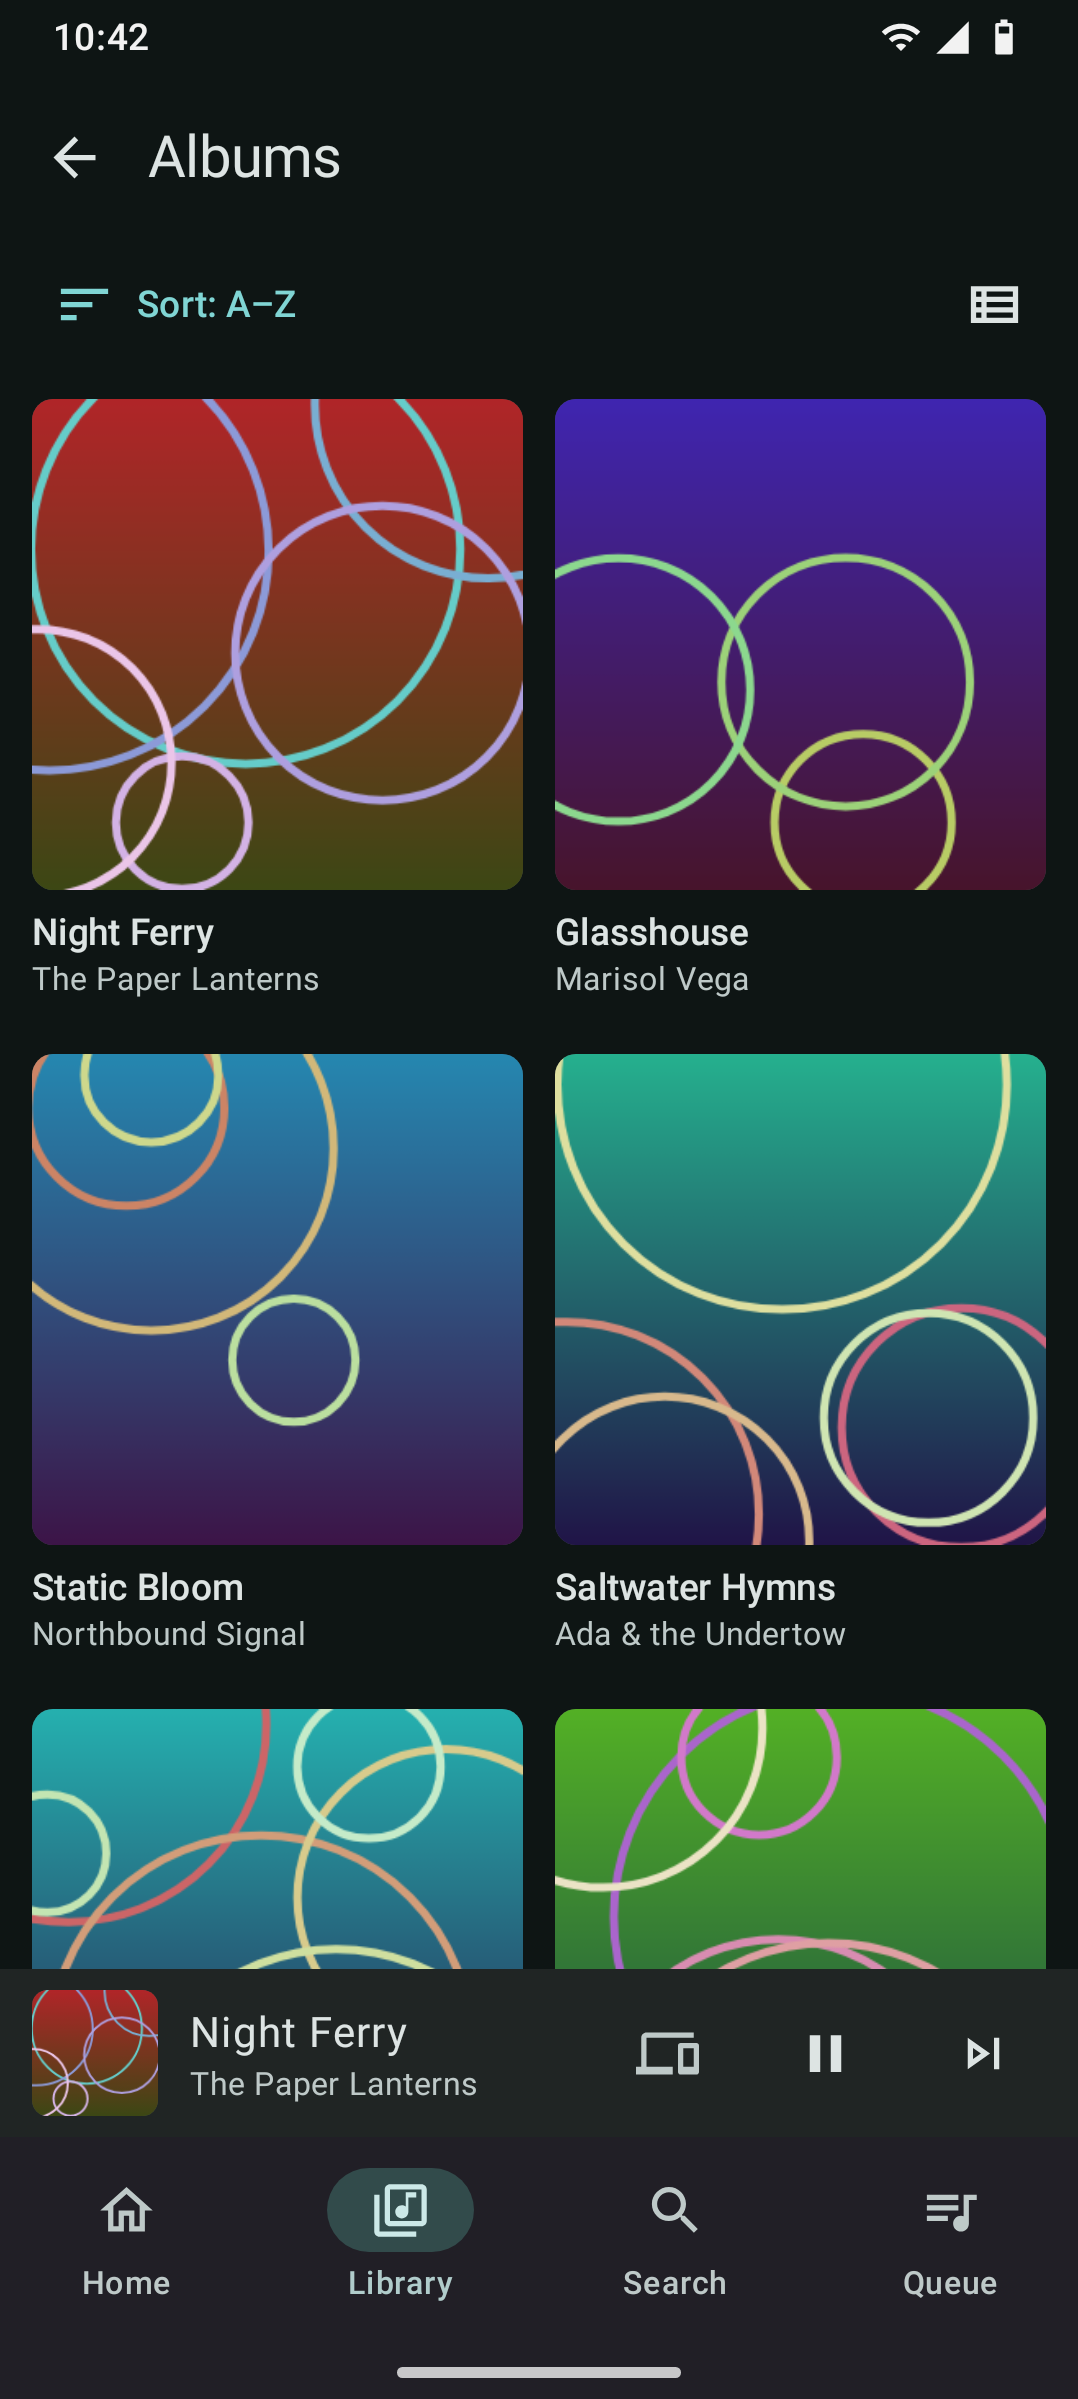
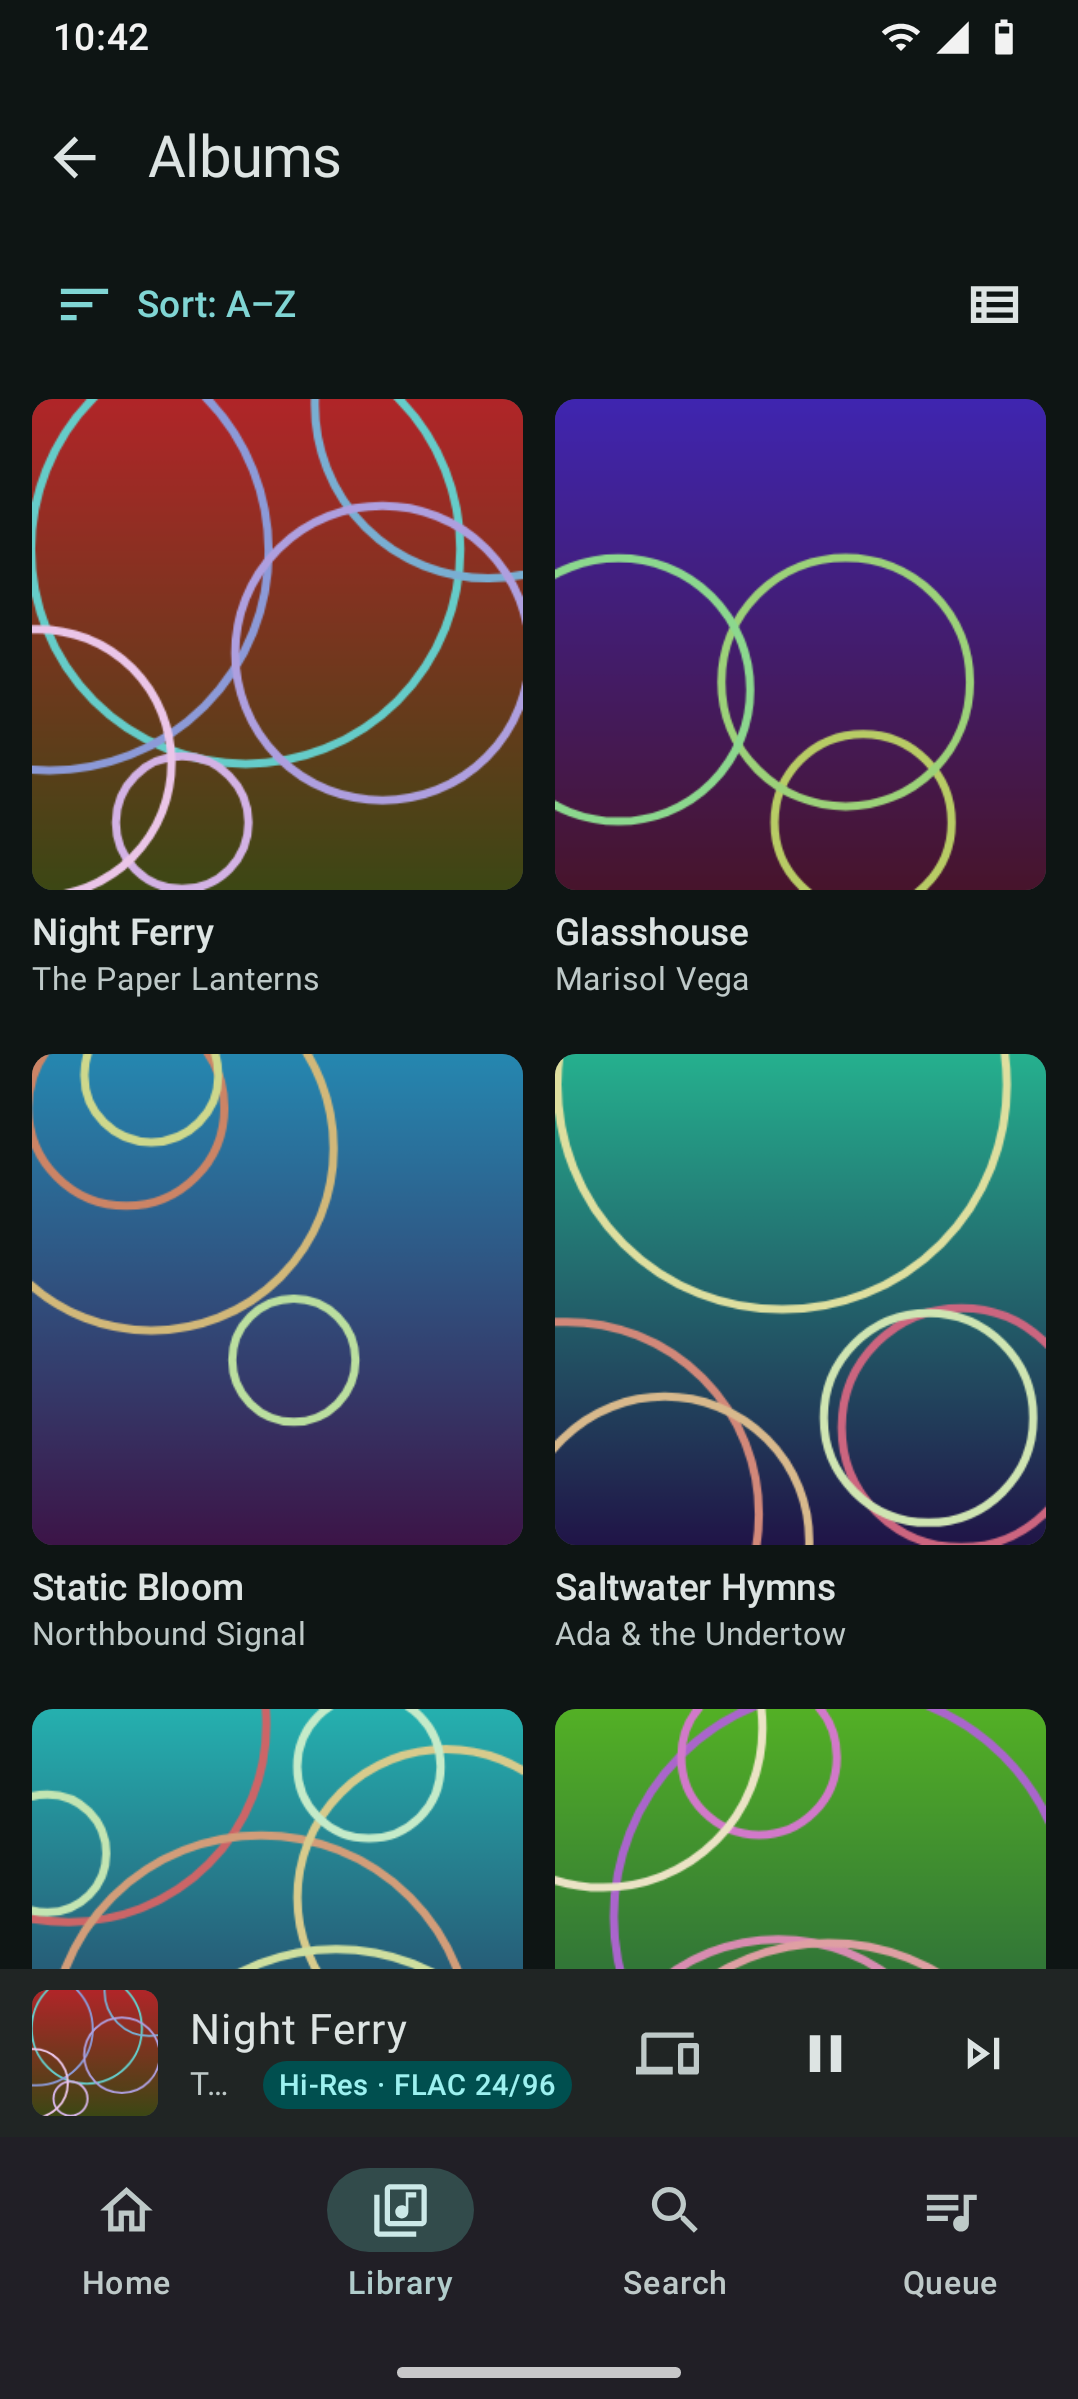
Docs: Android screenshots regenerated with the new quality badge and the signal-path block diagram; new scenes
Every scene is recorded again in one run (the badge now reads "Hi-Res · FLAC 24/96").
New or reworked: signal-path (the Transcoded case: amber gateway, the quality switch on
High), signal-path-hires (FLAC 24/96 passed through to a USB DAC), mini-player,
sound-settings (Fix output level at 100% on, Player level greyed out), sign-in-vpn (an
http:// private example address and the Unencrypted connection warning) and
settings-about-protocol. The diagrams come from the shared quality vectors. A dialog is
captured from its own window and drawn over the dimmed screen.

Changed region(s): [[0.2143, 0.8328, 0.551, 0.8945]]

diff --git a/apps/android/ui/src/test/kotlin/io/github/jamezuk/lyrionanywhere/ui/docs/DocScreenshots.kt b/apps/android/ui/src/test/kotlin/io/github/jamezuk/lyrionanywhere/ui/docs/DocScreenshots.kt
@@ -16,6 +16,7 @@ import androidx.compose.ui.test.captureToImage
 import androidx.compose.ui.test.junit4.createAndroidComposeRule
 import androidx.compose.ui.test.onNodeWithTag
 import androidx.compose.ui.test.onRoot
+import androidx.compose.ui.test.isRoot
 import androidx.compose.ui.test.hasScrollAction
 import androidx.compose.ui.test.hasScrollToNodeAction
 import androidx.compose.ui.test.hasTestTag
@@ -70,6 +71,12 @@ import io.github.jamezuk.lyrionanywhere.data.TopEntry
 import io.github.jamezuk.lyrionanywhere.data.Waveform
 import io.github.jamezuk.lyrionanywhere.data.statsPeriodChoices
 import io.github.jamezuk.lyrionanywhere.ui.FakeSharer
+import io.github.jamezuk.lyrionanywhere.ui.QualityVectors
+import io.github.jamezuk.lyrionanywhere.ui.onboarding.ServerScreen
+import io.github.jamezuk.lyrionanywhere.ui.onboarding.ServerUiState
+import androidx.compose.foundation.layout.Box
+import androidx.compose.foundation.layout.fillMaxSize
+import androidx.compose.foundation.layout.safeDrawingPadding
 import io.github.jamezuk.lyrionanywhere.ui.R
 import io.github.jamezuk.lyrionanywhere.ui.car.CarListsUi
 import io.github.jamezuk.lyrionanywhere.ui.car.CarModeScreen
@@ -183,6 +190,8 @@ abstract class DocShots {
     fun shot(
         name: String,
         darkIcons: Boolean? = null,
+        /** A dialog is open: its window is drawn centred over the screen, behind a scrim, as Android draws one. */
+        dialog: Boolean = false,
         prepare: () -> Unit = {},
         content: @Composable () -> Unit,
     ) {
@@ -192,11 +201,53 @@ abstract class DocShots {
         settle()
         prepare()
         settle()
-        val image = compose.onRoot().captureToImage().asAndroidBitmap()
+        val image = if (dialog) withDialog() else compose.onRoot().captureToImage().asAndroidBitmap()
         DocShotFiles.check(name, image)
         DocShotFiles.write(name, image)
     }
 }
+
+/**
+ * The screen with its open dialog: a dialog is a window of its own (a second root), so the
+ * two are captured apart and put together as the window manager would, the dialog over a
+ * dimmed screen.
+ */
+private fun DocShots.withDialog(): Bitmap {
+    assertTrue("expected a dialog over the screen", compose.onAllNodes(isRoot()).fetchSemanticsNodes().size == 2)
+    val screen = compose.onAllNodes(isRoot())[0].captureToImage().asAndroidBitmap()
+    // The dialog's own window, drawn as it is laid out.
+    val view = org.robolectric.shadows.ShadowDialog.getLatestDialog()!!.window!!.decorView
+    // Robolectric lays a dialog's window out as wide as the screen; a phone keeps a margin
+    // either side, so it is measured again at that width before it is drawn.
+    lateinit var dialog: Bitmap
+    compose.runOnUiThread {
+        val margin = (DIALOG_MARGIN_DP * view.resources.displayMetrics.density).toInt()
+        val width = screen.width - 2 * margin
+        view.measure(
+            android.view.View.MeasureSpec.makeMeasureSpec(width, android.view.View.MeasureSpec.EXACTLY),
+            android.view.View.MeasureSpec.makeMeasureSpec(screen.height, android.view.View.MeasureSpec.AT_MOST),
+        )
+        view.layout(0, 0, view.measuredWidth, view.measuredHeight)
+        dialog = Bitmap.createBitmap(view.measuredWidth, view.measuredHeight, Bitmap.Config.ARGB_8888)
+        view.draw(android.graphics.Canvas(dialog))
+    }
+    val out = screen.copy(Bitmap.Config.ARGB_8888, true)
+    val canvas = android.graphics.Canvas(out)
+    canvas.drawColor(android.graphics.Color.argb(DIALOG_DIM, 0, 0, 0))
+    // Centred, as Android places it, but kept below the screen's text field when there is one
+    // (the field is what the picture is about).
+    val field = compose.onAllNodes(androidx.compose.ui.test.hasSetTextAction(), useUnmergedTree = true)
+        .fetchSemanticsNodes().firstOrNull()?.boundsInRoot?.bottom
+    val below = field?.let { it + 24 * compose.activity.resources.displayMetrics.density } ?: 0f
+    canvas.drawBitmap(dialog, (out.width - dialog.width) / 2f, maxOf((out.height - dialog.height) / 2f, below), null)
+    return out
+}
+
+/** The space either side of a dialog on a phone. */
+private const val DIALOG_MARGIN_DP = 28
+
+/** The dim behind a dialog (0–255). */
+private const val DIALOG_DIM = 140
 
 /** Checks each picture, and writes it when recording (`-PrecordDocScreenshots`). */
 object DocShotFiles {
@@ -281,7 +332,12 @@ object DocStates {
         summary = "",
     )
 
-    fun player(selected: String = DocLibrary.LOUNGE, prefs: NowPlayingPrefs = NowPlayingPrefs()): PlayerUiState {
+    fun player(
+        selected: String = DocLibrary.LOUNGE,
+        prefs: NowPlayingPrefs = NowPlayingPrefs(),
+        /** The quality vector shown (default: as the selected player has it). */
+        vector: String? = null,
+    ): PlayerUiState {
         val phone = selected == DocLibrary.PHONE_ID
         val status = DocLibrary.status(name = if (phone) "Phone" else "Lounge")
         val current = status.current!!
@@ -304,9 +360,7 @@ object DocStates {
             lyricsTrackId = current.id,
             nowPlaying = prefs,
             // The badge and the diagram, as the shared rules draw them (core/tests/fixtures).
-            diagram = io.github.jamezuk.lyrionanywhere.ui.QualityVectors.expected(
-                if (phone) io.github.jamezuk.lyrionanywhere.ui.QualityVectors.PASSED_THROUGH else io.github.jamezuk.lyrionanywhere.ui.QualityVectors.REMOTE,
-            ),
+            diagram = QualityVectors.expected(vector ?: if (phone) QualityVectors.PASSED_THROUGH else QualityVectors.REMOTE),
         )
     }
 
@@ -492,9 +546,16 @@ class DocScreenshotsPhone : DocShots() {
         }
     }
 
+    /** The signal path as a block diagram: a Hi-Res file re-encoded for High on mobile data (amber gateway, the switch). */
     @Test
-    fun signalPath() = shot("signal-path") {
-        val phone = DocStates.player(selected = DocLibrary.PHONE_ID)
+    fun signalPath() = signalPathShot("signal-path", QualityVectors.REPORTED)
+
+    /** The same sheet for a Hi-Res file passed through to a USB DAC, bit-perfect. */
+    @Test
+    fun signalPathHiRes() = signalPathShot("signal-path-hires", QualityVectors.PASSED_THROUGH)
+
+    private fun signalPathShot(name: String, vector: String) = shot(name) {
+        val phone = DocStates.player(selected = DocLibrary.PHONE_ID, vector = vector)
         SheetOver(
             behind = {
                 PhoneShell(tab = null, mini = null) {
@@ -507,10 +568,16 @@ class DocScreenshotsPhone : DocShots() {
     }
 
     @Test
-    fun soundSettings() = shot("sound-settings") {
+    fun soundSettings() = shot(
+        "sound-settings",
+        prepare = {
+            // Loudness: Fix output level at 100% on, Player level greyed out under it.
+            compose.onAllNodes(hasScrollToNodeAction()).onFirst().performScrollToNode(hasTestTag("sound-levelling"))
+        },
+    ) {
         PhoneShell(tab = null, mini = DocStates.mini) {
             DocScreen(stringResource(R.string.title_sound), back = true) {
-                SoundScreen(SoundUiState(SoundSettings(), playerLevel = 60), object : SoundActions {})
+                SoundScreen(SoundUiState(SoundSettings(fixedOutputLevel = true), playerLevel = 100), object : SoundActions {})
             }
         }
     }
@@ -593,6 +660,43 @@ class DocScreenshotsPhone : DocShots() {
         PhoneShell(tab = null, mini = DocStates.mini) {
             DocScreen(stringResource(R.string.title_downloads), back = true) {
                 DownloadsScreen(DocStates.downloads(), DownloadsActions(onStorage = {}))
+            }
+        }
+    }
+
+    /** The Library tab with the mini player: the quality badge in its second line. */
+    @Test
+    fun miniPlayer() = shot("mini-player") {
+        PhoneShell(tab = MainTab.LIBRARY, mini = DocStates.mini) {
+            DocScreen(stringResource(R.string.nav_library)) {
+                LibraryScreen(emptyList(), null, {}, onOpen = {})
+            }
+        }
+    }
+
+    /** Signing in over a VPN: a plain http:// private address, and the warning it brings up. */
+    @Test
+    fun signInVpn() = shot("sign-in-vpn", dialog = true) {
+        Box(Modifier.fillMaxSize().safeDrawingPadding()) {
+            ServerScreen(ServerUiState(address = "http://10.8.0.1:9443", confirmUnencrypted = true), onAddressChange = {}, onSubmit = {})
+        }
+    }
+
+    /** Settings › About: the app's version and the server's player protocol. */
+    @Test
+    fun settingsAboutProtocol() = shot("settings-about-protocol") {
+        PhoneShell(tab = null, mini = DocStates.mini) {
+            DocScreen(stringResource(R.string.section_about), back = true) {
+                SettingsScreen(
+                    state = SettingsUiState(username = "alex", sound = SoundSettings(), deviceName = "Phone"),
+                    appVersion = "1.17.0",
+                    libraryVersion = "0.0.1",
+                    onSignOut = {},
+                    onLicences = {},
+                    section = io.github.jamezuk.lyrionanywhere.ui.settings.SettingsSection.ABOUT,
+                    serverProtocol = 2u,
+                    serverProtocolChecked = true,
+                )
             }
         }
     }
